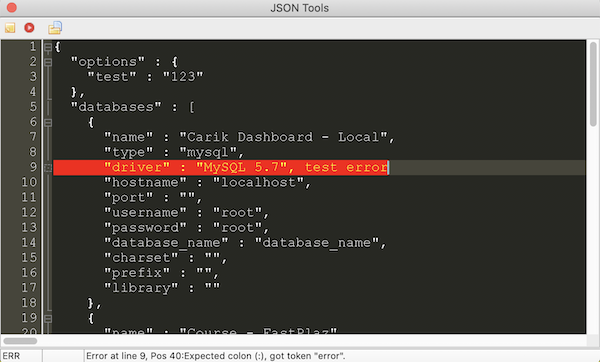
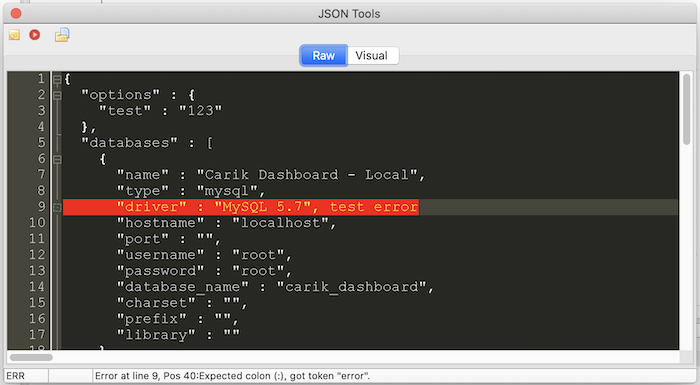
tools: visualisasi json

diff --git a/website-docs/tools-json-validator.md b/website-docs/tools-json-validator.md
@@ -6,4 +6,12 @@ sidebar_label: JSON Validator
 
 Fitur **JSON Validator** ini sangat berguna bagi developer yang sering kali terlibat dalam pembuatan atau penggunaan **API**, mengetahui struktur json sudah benar atau belum dan sekaligus melakukan _formatting_.
 
+
+## Validator & Formatter
+
 ![json validator](/img/tools/json-validator.png)
+
+## Visualisasi
+
+![json visual](/img/tools/json-visual.png)
+
